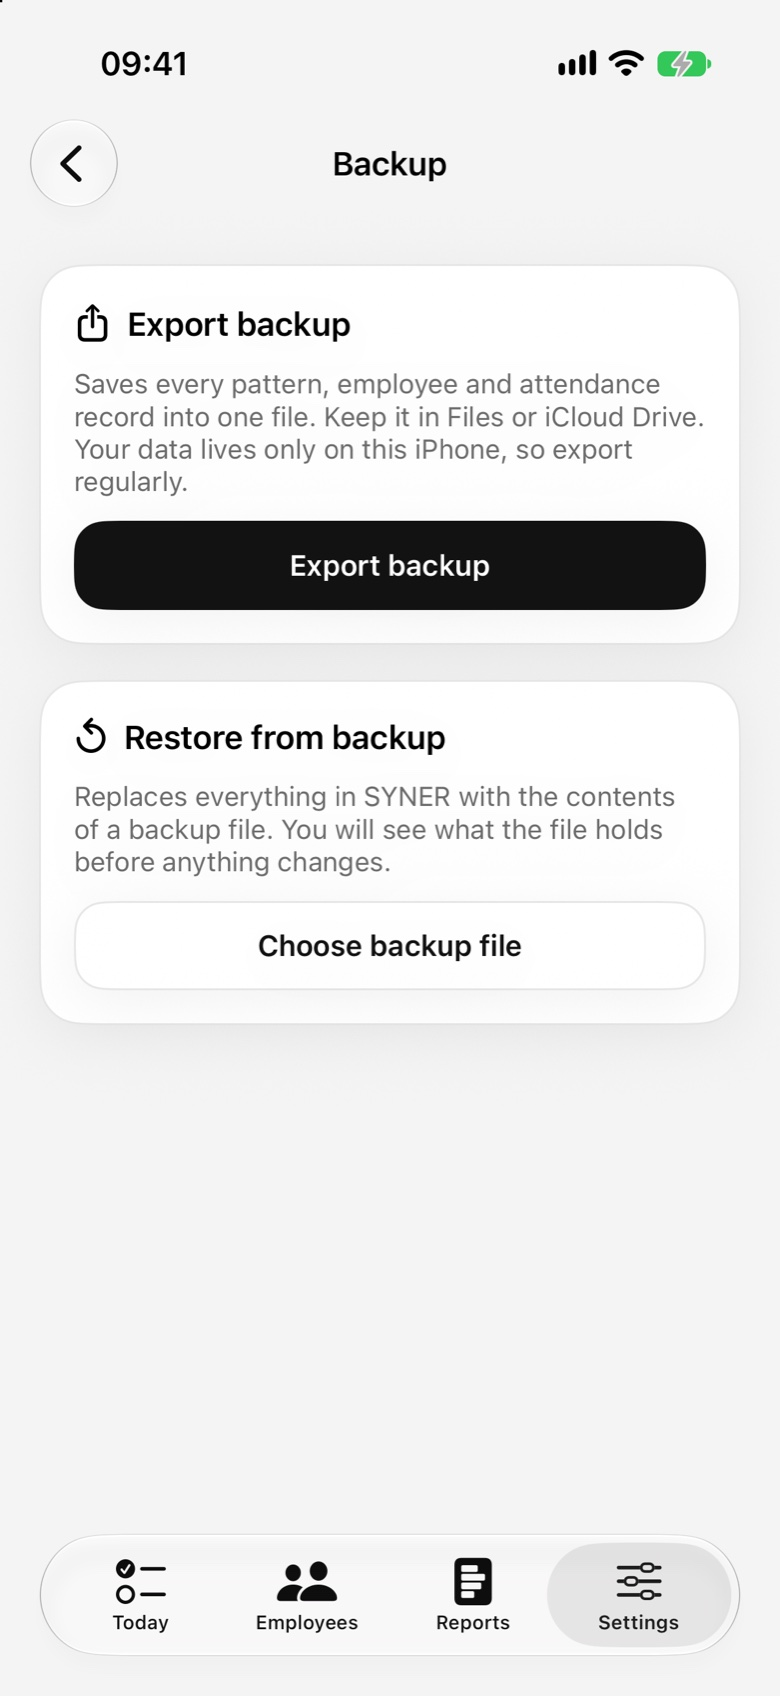
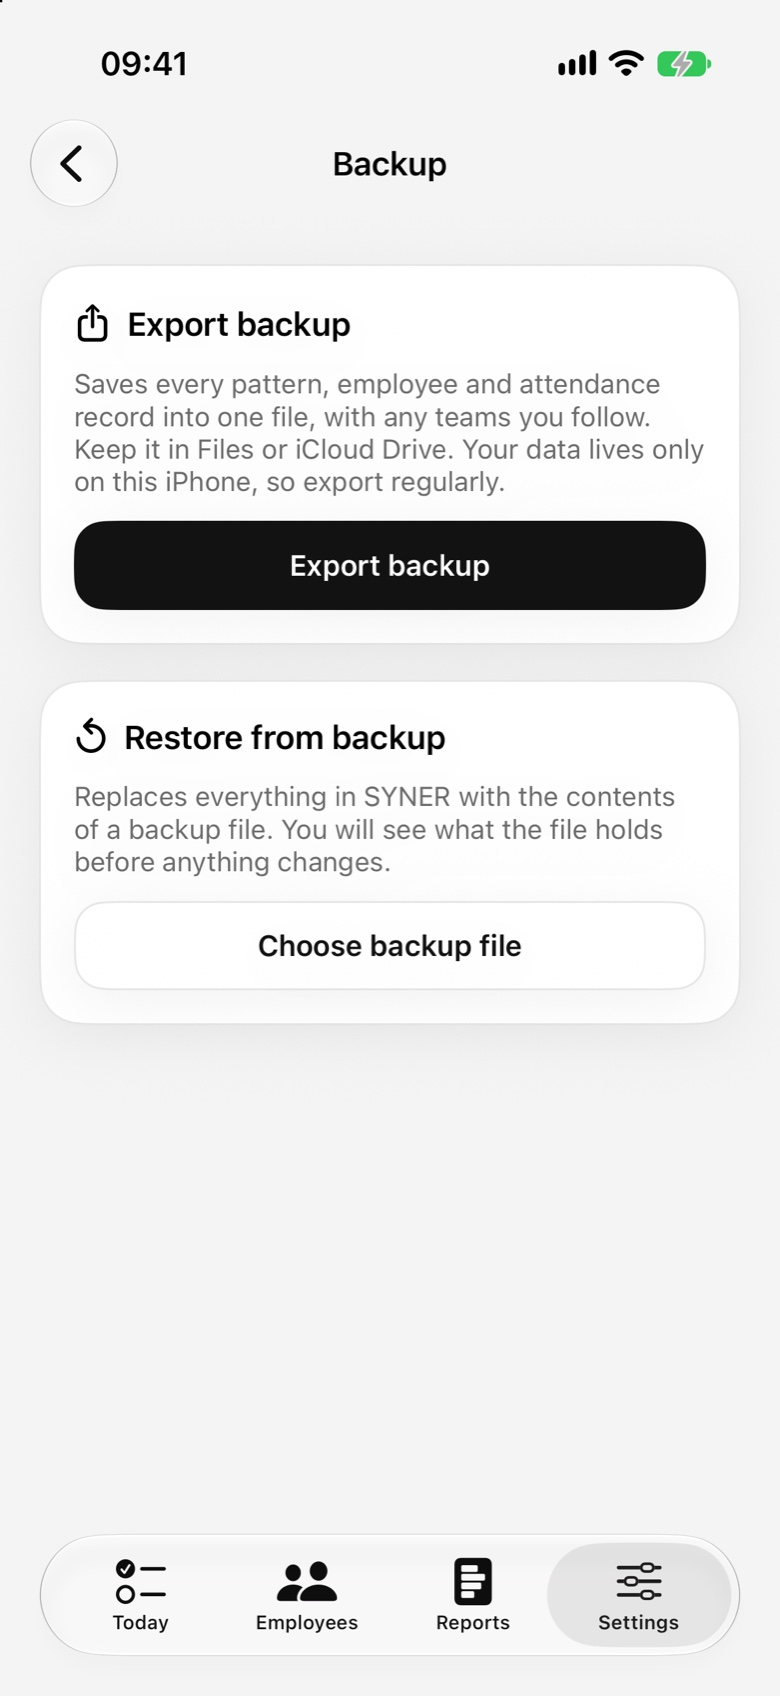
Guide: sharing with a supervisor, following teams and covering for a colleague; support, privacy and home updated

Changed region(s): [[0.0923, 0.2188, 0.8923, 0.3125]]

diff --git a/guide.html b/guide.html
@@ -22,12 +22,13 @@
 <section class="guide-hero"><div class="wrap">
   <p class="eyebrow">Step-by-step guide</p>
   <h1>Set up once.<br>Then two touches a day.</h1>
-  <p>This guide walks through SYNER from the first launch to the monthly report. Setting up takes about ten minutes. After that, a day takes seconds.</p>
+  <p>This guide walks through SYNER from the first launch to the monthly report, then on to working with a supervisor and covering for a colleague. Setting up takes about ten minutes. After that, a day takes seconds.</p>
   <ol class="phases">
     <li><a href="#pattern"><b>Set up</b><span>Work patterns and your team</span></a></li>
     <li><a href="#today"><b>Record</b><span>Attendance, status and leave</span></a></li>
     <li><a href="#month"><b>Review</b><span>The month and the reports</span></a></li>
     <li><a href="#data"><b>Protect</b><span>Backup and handover</span></a></li>
+    <li><a href="#share"><b>Together</b><span>Supervisors and cover</span></a></li>
   </ol>
 </div></section>
 
@@ -42,6 +43,10 @@
     <a href="#month"><i>7</i>Follow the month</a>
     <a href="#reports"><i>8</i>Share reports</a>
     <a href="#data"><i>9</i>Keep your data safe</a>
+    <a href="#share"><i>10</i>Share with a supervisor</a>
+    <a href="#follow"><i>11</i>Follow your leaders' teams</a>
+    <a href="#cover"><i>12</i>Hand over for cover</a>
+    <a href="#covering"><i>13</i>Cover a colleague</a>
   </nav>
 </div>
 
@@ -243,19 +248,137 @@
       <li>To bring it back, or to move to a new iPhone, touch <b>Choose backup file</b>. The app shows what the file holds before anything changes.</li>
     </ol>
     <h3>Hand over</h3>
+    <p>Settings, then Transfer, moves data to another person in an encrypted file that opens only with a code. There are three kinds:</p>
     <ol class="do">
-      <li>Open <b>Settings</b>, then <b>Transfer</b>.</li>
-      <li>Choose <b>Transfer an employee</b> to move one person with their history to another leader, or <b>Hand over everything</b> for whoever takes over your position.</li>
-      <li>Send the encrypted file any way you like, and give the <b>code</b> separately.</li>
-      <li>The other person opens <b>Transfer</b>, then <b>Receive</b>, and enters the code.</li>
+      <li><b>Transfer an employee</b> moves one person, with their history, to another leader.</li>
+      <li><b>Hand over for cover</b> lends your whole team to a colleague while you are away. It comes back. See steps 12 and 13.</li>
+      <li><b>Hand over everything</b> is for whoever takes over your position for good. It carries your patterns, employees and records, and the teams you follow.</li>
+      <li>Send the file any way you like, and give the <b>code</b> separately. The other person opens the file in SYNER, or under <b>Transfer</b>, then <b>Receive</b>, and enters the code.</li>
     </ol>
     <p class="tip"><b>Two things to remember.</b> A backup file is not encrypted, so keep it somewhere safe. A transfer code cannot be recovered; if it is lost, make a new transfer.</p>
   </div>
   <div class="shots">
     <figure class="phone"><img src="img/guide/13-backup.jpg" alt="The Backup screen: export and restore" width="780" height="1696" loading="lazy">
       <figcaption>Backup</figcaption></figure>
-    <figure class="phone"><img src="img/guide/14-transfer.jpg" alt="The Transfer screen: transfer an employee, hand over everything, receive" width="780" height="1696" loading="lazy">
+    <figure class="phone"><img src="img/guide/14-transfer.jpg" alt="The Transfer screen: transfer an employee, hand over for cover, hand over everything, receive" width="780" height="1696" loading="lazy">
       <figcaption>Transfer</figcaption></figure>
+  </div>
+</div></section>
+
+<!-- 10 -->
+<section class="step" id="share"><div class="wrap step-grid">
+  <div class="step-text">
+    <p class="phase">Together</p>
+    <h2><span class="num">10</span>Share with a supervisor</h2>
+    <p class="lead">A leader can share their team's record with a supervisor. It travels as a small encrypted file, by WhatsApp or any other app. Nothing is sent unless you send it.</p>
+    <h3>Link once</h3>
+    <ol class="do">
+      <li>Open <b>Settings</b>, then <b>Team Sharing</b>.</li>
+      <li>Type the name your supervisor will see and touch <b>Create link</b>.</li>
+      <li>Touch <b>Send the link file</b> and send it to your supervisor.</li>
+      <li>Give them the <b>code</b> separately. It is shown only now, and it is needed only this once.</li>
+    </ol>
+    <h3>Then, every day</h3>
+    <ol class="do">
+      <li>Record your team as usual.</li>
+      <li>Touch the <b>send</b> button beside search on Today, and send the file. There is no code this time.</li>
+    </ol>
+    <p>Each file carries your team as it stands, so a correction to an earlier day reaches your supervisor with the next file. Your supervisor can look at everything and change nothing.</p>
+    <p class="tip"><b>New supervisor, or a lost phone?</b> Team Sharing has <b>New link</b>, which makes a new file and code and retires the old one, and <b>Stop sharing</b>.</p>
+  </div>
+  <div class="shots">
+    <figure class="phone"><img src="img/guide/15-share-link.jpg" alt="Team Sharing after a link was created, showing the code and the button that sends the link file" width="780" height="1696" loading="lazy">
+      <figcaption>The link and its code</figcaption></figure>
+    <figure class="phone"><img src="img/guide/16-share-update.jpg" alt="Today on a leader's iPhone with the send button beside search" width="780" height="1696" loading="lazy">
+      <span class="pin" style="left:77%;top:6.5%">2</span>
+      <figcaption>The send button on Today</figcaption></figure>
+  </div>
+</div></section>
+
+<!-- 11 -->
+<section class="step" id="follow"><div class="wrap step-grid">
+  <div class="step-text">
+    <p class="phase">Together</p>
+    <h2><span class="num">11</span>Follow your leaders' teams</h2>
+    <p class="lead">A supervisor sees every leader's team on Today, under their own team. Their own team stays exactly as it was.</p>
+    <ol class="do">
+      <li>Open the file a leader sent you and choose <b>SYNER</b>. From WhatsApp, open the file, touch the share button and pick SYNER.</li>
+      <li>The first time, enter the leader's <b>code</b> and touch <b>Add team</b>.</li>
+      <li>After that, each file shows what changed. Touch <b>Update</b>.</li>
+      <li>On <b>Today</b>, scroll to <b>Teams</b>. Each card shows who is here and when the team last sent. A team that has not sent today is marked and comes first.</li>
+      <li>Touch a card to open the team: <b>Day</b> for attendance on any day, <b>People</b> for each person's month, and <b>Report</b> for the monthly sheet.</li>
+    </ol>
+    <p>The same file opened twice changes nothing, and an older file never replaces a newer one. The counters at the top of Today, and All Start and All End, are for your own team only.</p>
+    <p class="tip"><b>One report for everyone.</b> In <b>Reports</b>, touch <b>All teams report</b> for one sheet with your own team and every team you follow, each with its own total.</p>
+  </div>
+  <div class="shots">
+    <figure class="phone"><img src="img/guide/18-teams.jpg" alt="The Teams section on Today with a card for one leader's team" width="780" height="1696" loading="lazy">
+      <span class="pin" style="left:5.5%;top:72.5%">4</span>
+      <figcaption>Teams, under your own team</figcaption></figure>
+    <figure class="phone"><img src="img/guide/19-team.jpg" alt="A leader's team opened by the supervisor, marked View only, with Day, People and Report" width="780" height="1696" loading="lazy">
+      <span class="pin" style="left:93%;top:27.7%">5</span>
+      <figcaption>A team, view only</figcaption></figure>
+  </div>
+</div>
+<div class="wrap sheet">
+  <figure><img src="img/all-teams-sheet.png" alt="The all teams report: the supervisor's own team and a leader's team on one sheet, each with its total" width="1800" height="1271" loading="lazy">
+    <figcaption>The all teams report</figcaption></figure>
+</div></section>
+
+<!-- 12 -->
+<section class="step" id="cover"><div class="wrap step-grid">
+  <div class="step-text">
+    <p class="phase">Together</p>
+    <h2><span class="num">12</span>Hand your team over for cover</h2>
+    <p class="lead">Going away for a while? A colleague can record your team beside their own and hand it back when you return. Nothing is lost on the way out or on the way back.</p>
+    <ol class="do">
+      <li>Open <b>Settings</b>, then <b>Transfer</b>, and touch <b>Hand over for cover</b>.</li>
+      <li>Type the name your colleague will see and touch <b>Create file</b>.</li>
+      <li>Send the file to your colleague and give them the <b>code</b> separately.</li>
+    </ol>
+    <p>Creating the file <b>locks your team</b> on your iPhone. You can still read everything, but only your colleague records from now on. That is what makes the return safe: there is only ever one copy being changed.</p>
+    <h3>When you come back</h3>
+    <ol class="do">
+      <li>Your colleague sends you a return file and its code.</li>
+      <li>Open the file in SYNER, enter the code and touch <b>Take my team back</b>.</li>
+    </ol>
+    <p>Your team returns with everything recorded while you were away, and your iPhone is unlocked.</p>
+    <p class="tip"><b>The file never arrived?</b> Open Transfer and choose <b>Cancel the cover</b> to unlock your team. Do this only if your colleague has not started: a return sent after a cancel is not accepted.</p>
+  </div>
+  <div class="shots">
+    <figure class="phone"><img src="img/guide/20-cover.jpg" alt="Hand Over for Cover: the code, the send button and a note that the team is locked" width="780" height="1696" loading="lazy">
+      <figcaption>The cover file and its code</figcaption></figure>
+    <figure class="phone"><img src="img/guide/21-locked.jpg" alt="Today on the iPhone of the person away: a notice that the team is being covered, and the ticks cannot be changed" width="780" height="1696" loading="lazy">
+      <figcaption>Your team while it is covered</figcaption></figure>
+  </div>
+</div></section>
+
+<!-- 13 -->
+<section class="step" id="covering"><div class="wrap step-grid">
+  <div class="step-text">
+    <p class="phase">Together</p>
+    <h2><span class="num">13</span>Cover a colleague's team</h2>
+    <p class="lead">Your colleague's team arrives as a second team beside your own. Your own team is not touched.</p>
+    <ol class="do">
+      <li>Open the file your colleague sent, enter the <b>code</b> and touch <b>Start covering</b>.</li>
+      <li>At the top of <b>Today</b>, switch between <b>My team</b> and the team you are covering.</li>
+      <li>While their team is selected, the whole app works on it: record attendance, add leave, open the reports, exactly as you do for your own.</li>
+      <li>If your colleague shares with a supervisor, keep sending updates from Today. If they follow teams as a supervisor, the leaders' files open here.</li>
+    </ol>
+    <h3>Handing it back</h3>
+    <ol class="do">
+      <li>Select the covered team, then open <b>Settings</b>, <b>Transfer</b>, <b>Return this team</b>.</li>
+      <li>Create the file, send it and give the code separately.</li>
+      <li>Once your colleague confirms it arrived, touch <b>Remove the covered team</b>.</li>
+    </ol>
+    <p class="tip"><b>Return it before you hand over or erase your own iPhone.</b> A covered team is your colleague's; SYNER will not erase your iPhone or hand it over while you still hold it.</p>
+  </div>
+  <div class="shots">
+    <figure class="phone"><img src="img/guide/22-cover-receive.jpg" alt="Receiving a cover file: the team's contents and the Start covering button" width="780" height="1696" loading="lazy">
+      <figcaption>Taking a team for cover</figcaption></figure>
+    <figure class="phone"><img src="img/guide/23-covering.jpg" alt="Today with a switch at the top between My team and the covered team" width="780" height="1696" loading="lazy">
+      <span class="pin" style="left:5.5%;top:13%">2</span>
+      <figcaption>Switching between the two teams</figcaption></figure>
   </div>
 </div></section>
 

diff --git a/support.html b/support.html
@@ -4,7 +4,7 @@
 <meta charset="utf-8">
 <meta name="viewport" content="width=device-width, initial-scale=1">
 <title>Support — SYNER</title>
-<meta name="description" content="Help with SYNER: work patterns, attendance, overtime, reports, backups and transfers.">
+<meta name="description" content="Help with SYNER: work patterns, attendance, overtime, reports, backups, transfers, sharing with a supervisor and covering for a colleague.">
 <link rel="icon" href="img/icon.png">
 <link rel="stylesheet" href="style.css">
 </head>
@@ -53,11 +53,39 @@
   <details><summary>How do I back up my data?</summary>
     <p>Open Settings, then Backup, and export a backup file. Keep it somewhere safe: a backup file is not encrypted. To bring it back, choose Restore on the same screen.</p></details>
   <details><summary>How do I hand my team over to someone else?</summary>
-    <p>Open Settings, then Transfer. Choose everything or one employee, send the encrypted file, and give the other person the code separately. They open it in SYNER under Transfer, Receive.</p></details>
+    <p>Open Settings, then Transfer. Choose Hand over everything if someone is taking over your position for good, or Transfer an employee for one person. Send the encrypted file, and give the other person the code separately. They open the file in SYNER, or under Transfer, Receive. A full handover also carries the teams you follow and your link with a supervisor.</p></details>
   <details><summary>I lost the transfer code.</summary>
     <p>The code cannot be recovered, and the file cannot be opened without it. Make a new transfer from the iPhone that still has the data.</p></details>
   <details><summary>I got a new iPhone. How do I move my data?</summary>
     <p>Export a backup on the old iPhone, send the file to the new one, and restore it there from Settings, Backup.</p></details>
+
+  <h2>Working with a supervisor</h2>
+  <details><summary>How do I share my team with my supervisor?</summary>
+    <p>Open Settings, then Team Sharing. Name your team, create the link, send the link file and give your supervisor the code separately. That is done once. After that, touch the send button beside search on Today whenever you want to send an update; there is no code. The <a href="guide.html#share">guide</a> shows each screen.</p></details>
+  <details><summary>What can my supervisor see and do?</summary>
+    <p>Everything you hold about your team: attendance, hours, leave, notes, and each person's details. They can look at all of it and change none of it. Only you record your team.</p></details>
+  <details><summary>I am a supervisor. How do I open a file a leader sent me?</summary>
+    <p>Open the file and choose SYNER. From WhatsApp, open the file, touch the share button and pick SYNER. You can also open Settings, Team Sharing, Open a team file. The first file from a leader asks for their code; later files do not.</p></details>
+  <details><summary>The app says I already have a newer update.</summary>
+    <p>You opened a file older than the one you already hold, so nothing changed. If a leader moved to a new iPhone or restored a backup and their files keep being refused, remove the team in Settings, Team Sharing, and ask the leader for a new link file.</p></details>
+  <details><summary>Do the leaders' teams change my own numbers?</summary>
+    <p>No. The counters on Today, All Start and All End, the Employees tab and your own reports are for your own team only. The teams you follow sit under the Teams heading on Today, and the All teams report in Reports puts everyone on one sheet.</p></details>
+  <details><summary>How do I stop sharing, or stop following a team?</summary>
+    <p>A leader opens Settings, Team Sharing, Stop sharing. The supervisor keeps what they already have; it stops updating. A supervisor removes a team from the same screen, or from the menu at the top of the team.</p></details>
+
+  <h2>Covering for a colleague</h2>
+  <details><summary>I am going away. How does a colleague record my team?</summary>
+    <p>Open Settings, Transfer, Hand over for cover. Name your team, create the file, send it and give the code separately. Creating the file locks your team on your iPhone, so only your colleague records it while you are away. See the <a href="guide.html#cover">guide</a>.</p></details>
+  <details><summary>Why is my team locked?</summary>
+    <p>Because a colleague is covering it. With one phone recording at a time, nothing is lost when the team comes back. You can still read everything. It unlocks when you open the return file your colleague sends.</p></details>
+  <details><summary>How do I get my team back?</summary>
+    <p>Ask your colleague to open the covered team, then Settings, Transfer, Return this team, and to send you the file and its code. Open the file in SYNER, enter the code and touch Take my team back.</p></details>
+  <details><summary>The cover file never reached my colleague.</summary>
+    <p>Open Settings, Transfer and choose Cancel the cover to unlock your team, then start again. Cancel only if your colleague has not started covering: a return sent after a cancel is not accepted.</p></details>
+  <details><summary>I am covering a team. Where is it?</summary>
+    <p>At the top of Today there is a switch between My team and the team you are covering. While a covered team is selected, every tab works on that team. Your own team is not touched.</p></details>
+  <details><summary>Why can't I erase my iPhone or hand everything over?</summary>
+    <p>You are still covering a colleague's team. Return it first, then remove it from your iPhone.</p></details>
 
   <!-- The contact box goes here once a support address is chosen. -->
 </div></main>

diff --git a/privacy.html b/privacy.html
@@ -32,18 +32,19 @@
   <ul>
     <li><strong>Reports.</strong> You can export a report as a PDF or CSV file and share it with any app you choose.</li>
     <li><strong>Backups.</strong> You can export a backup file and keep it wherever you like. A backup file is not encrypted, so store it somewhere safe.</li>
-    <li><strong>Transfers.</strong> You can hand your data, or one employee, to another person in a transfer file. Transfer files are encrypted and open only with a code that the app shows you. Share the code separately from the file.</li>
+    <li><strong>Transfers.</strong> You can hand your data, or one employee, to another person in a transfer file, for good or for a period of cover. Transfer files are encrypted and open only with a code that the app shows you. Share the code separately from the file.</li>
+    <li><strong>Team updates.</strong> A leader can share their team's record with a supervisor. The first file is encrypted and opens only with a code; later files are encrypted with a key that only the two iPhones hold. A team update carries everything the leader keeps about the team, including each person's details and notes, and the supervisor can read all of it.</li>
   </ul>
-  <p>Once a file has left the app, whoever receives it is responsible for it.</p>
+  <p>Files are sent with the apps you choose, such as WhatsApp, Mail or AirDrop. SYNER has no server of its own and none of these files pass through us. Once a file has left the app, whoever receives it is responsible for it.</p>
 
   <h2>Device backups</h2>
   <p>If you back up your iPhone with iCloud or a computer, the app's data may be part of that backup. Those backups are handled by Apple under Apple's privacy policy and your own settings.</p>
 
   <h2>The people in your list</h2>
-  <p>The information you keep about your employees is yours to look after. Keep only what you need, and follow the rules of your workplace and your country about employee records.</p>
+  <p>The information you keep about your employees is yours to look after. Keep only what you need, and follow the rules of your workplace and your country about employee records. This applies equally to a team you follow as a supervisor and to a team you cover for a colleague: their records are on your iPhone while you do.</p>
 
   <h2>Deleting your data</h2>
-  <p>You can delete any employee from inside the app, which removes their records as well. Deleting the app from your iPhone removes everything it stored.</p>
+  <p>You can delete any employee from inside the app, which removes their records as well. A team you follow can be removed in Settings, Team Sharing. A team you cover is removed when you return it. Deleting the app from your iPhone removes everything it stored.</p>
 
   <h2>Children</h2>
   <p>SYNER is a work tool for adults and is not directed at children.</p>

diff --git a/style.css b/style.css
@@ -92,7 +92,7 @@ footer a:first-child { margin-left: 0; }
 .guide-hero .eyebrow { margin: 0 0 18px; font-size: 13px; letter-spacing: .14em; text-transform: uppercase; color: var(--mist); }
 .guide-hero h1 { font-size: clamp(38px, 5.6vw, 66px); line-height: 1.05; letter-spacing: -.025em; margin: 0 0 20px; font-weight: 600; }
 .guide-hero p { font-size: 20px; color: var(--mist); max-width: 32em; margin: 0; }
-.phases { list-style: none; padding: 0; margin: 52px 0 0; display: grid; grid-template-columns: repeat(4, 1fr); gap: 12px; counter-reset: phase; }
+.phases { list-style: none; padding: 0; margin: 52px 0 0; display: grid; grid-template-columns: repeat(5, 1fr); gap: 12px; counter-reset: phase; }
 .phases a { display: block; height: 100%; border: 1px solid #333338; border-radius: 20px; padding: 20px 22px; text-decoration: none; counter-increment: phase; }
 .phases a:hover { border-color: #6b6b70; }
 .phases a::before { content: "0" counter(phase); display: block; font-size: 13px; color: var(--slate); margin-bottom: 26px; font-variant-numeric: tabular-nums; }
@@ -128,6 +128,7 @@ figure { margin: 0; }
 figcaption { margin-top: 12px; text-align: center; font-size: 13px; color: var(--slate); }
 .pin { position: absolute; transform: translate(-50%, -50%); width: 26px; height: 26px; border-radius: 50%; background: var(--ink); color: #fff; border: 2px solid #fff; box-shadow: 0 2px 8px rgba(11,11,12,.35); font-size: 13px; font-weight: 600; line-height: 1; display: grid; place-items: center; }
 .sheet { margin-top: 56px; }
+.sheet figcaption { margin-top: 14px; }
 .sheet img { display: block; width: 100%; height: auto; border-radius: 26px; border: 1px solid var(--mist); }
 .closing a { color: #fff; }
 

diff --git a/index.html b/index.html
@@ -38,6 +38,8 @@
     <div class="card"><h3>Hours you can trust</h3><p>Regular hours and overtime are counted separately, day by day. Add or take away overtime for any single day.</p></div>
     <div class="card"><h3>Reports ready to share</h3><p>A clear monthly sheet for the whole team or for one person, as PDF or CSV.</p></div>
     <div class="card"><h3>Hand over safely</h3><p>Pass your data, or one employee, to another leader in an encrypted file that opens only with a code.</p></div>
+    <div class="card"><h3>Leaders and supervisors</h3><p>Each leader sends their team's record as a small file. The supervisor sees every team on one screen, and one report for all of them.</p></div>
+    <div class="card"><h3>Cover for a colleague</h3><p>Record a colleague's team beside your own while they are away, then hand it back with nothing lost.</p></div>
   </div>
 </div></section>
 
@@ -67,6 +69,7 @@
     <div class="card"><h3>On your iPhone only</h3><p>Everything is stored on the device. There is no server and no cloud copy.</p></div>
     <div class="card"><h3>No account</h3><p>No sign-up, no email, no password. Open the app and start.</p></div>
     <div class="card"><h3>No ads, no tracking</h3><p>SYNER collects nothing and contains no analytics or advertising.</p></div>
+    <div class="card"><h3>Shared only by you</h3><p>A team reaches a supervisor or a colleague only as an encrypted file that you send yourself.</p></div>
   </div>
 </div></section>
 
